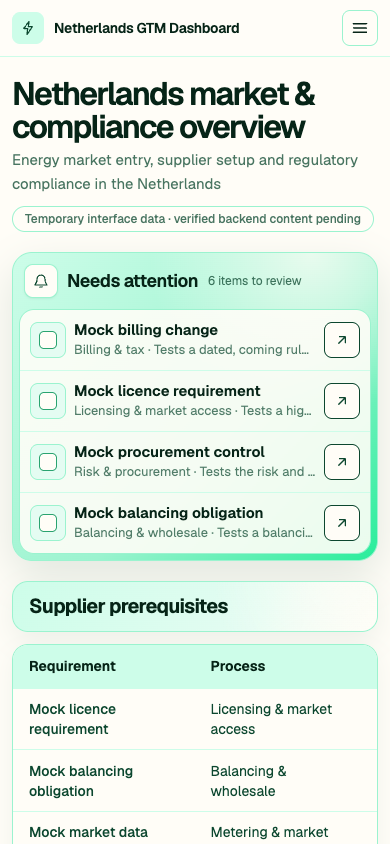
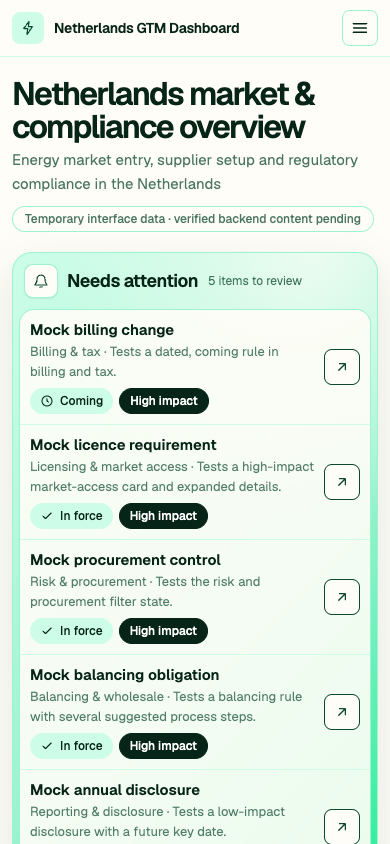
Align dashboard and seed with electricity-only compliance scope
- Scope label: Electricity · Netherlands
- Hide sales opportunities (kind opp) and sales process in UI
- Needs attention: read-only status, no local checkbox, show all items
- Prerequisites: one row per process, highest impact first
- Phone: status/impact pills visible, titles wrap, better contrast
- A11y: aria-controls, region, focus-visible, th scope
- Seed: remove gas-only R07, mark seed legacy/unverified
- Docs: fix stale prototype reference

Changed region(s): [[0.0308, 0.3081, 0.9846, 1.0], [0.5538, 0.3081, 0.7692, 0.3389]]

diff --git a/components/market-rules-dashboard.tsx b/components/market-rules-dashboard.tsx
@@ -4,7 +4,6 @@ import { useMemo, useState } from "react";
 import type {
   MarketRule,
   MarketRuleImpact,
-  MarketRuleKind,
   MarketRuleProcess,
   MarketRuleStatus,
 } from "@/lib/data/market-rules";
@@ -28,6 +27,8 @@ import {
 
 type FilterValue<T extends string> = "all" | T;
 
+const complianceProcesses = marketRuleProcesses.filter((value) => value !== "sales");
+
 const processLabels: Record<MarketRuleProcess, string> = {
   licence: "Licensing & market access",
   risk: "Risk & procurement",
@@ -50,6 +51,8 @@ const processQuestions: Record<MarketRuleProcess, string> = {
   sales: "Which client rule opens a deal?",
 };
 
+const impactRank: Record<MarketRuleImpact, number> = { high: 0, medium: 1, low: 2 };
+
 const impactLabels: Record<MarketRuleImpact, string> = {
   high: "High impact",
   medium: "Medium impact",
@@ -61,7 +64,8 @@ function formatDate(date: string) {
     day: "numeric",
     month: "short",
     year: "numeric",
-  }).format(new Date(`${date}T00:00:00`));
+    timeZone: "UTC",
+  }).format(new Date(`${date.slice(0, 10)}T00:00:00Z`));
 }
 
 function SelectFilter<T extends string>({
@@ -90,7 +94,7 @@ function SelectFilter<T extends string>({
           </option>
         ))}
       </select>
-      <ChevronDownIcon className="pointer-events-none absolute right-3 top-3 size-4 text-[#0C472F] sm:right-3.5 sm:top-3.5" />
+      <ChevronDownIcon className="pointer-events-none absolute right-3 top-1/2 size-4 -translate-y-1/2 text-[#0C472F] sm:right-3.5" />
     </label>
   );
 }
@@ -124,7 +128,11 @@ function ImpactPill({ impact }: { impact: MarketRuleImpact }) {
 
 function RuleDetails({ rule }: { rule: MarketRule }) {
   return (
-    <div className="grid gap-6 border-t border-[#CDFDE9] bg-[#FBF7EB] px-4 py-5 md:grid-cols-[1.15fr_0.85fr] md:px-6">
+    <div
+      id={`rule-details-${rule.id}`}
+      role="region"
+      aria-label={`Details: ${rule.title}`}
+      className="grid gap-6 border-t border-[#CDFDE9] bg-[#FBF7EB] px-4 py-5 md:grid-cols-[1.15fr_0.85fr] md:px-6">
       <div>
         <p className="market-kicker">What the rule says</p>
         <p className="mt-2 text-sm leading-6 text-[#0C472F]">{rule.rule_text}</p>
@@ -132,7 +140,7 @@ function RuleDetails({ rule }: { rule: MarketRule }) {
         <p className="market-kicker mt-5">What this means for trawa</p>
         <p className="mt-2 text-sm leading-6 text-[#0C472F]">{rule.impact_text}</p>
 
-        <div className="mt-5 flex flex-wrap items-center gap-x-4 gap-y-2 text-xs text-[#2AA370]">
+        <div className="mt-5 flex flex-wrap items-center gap-x-4 gap-y-2 text-xs text-[#1F7A54]">
           <span>Checked {formatDate(rule.checked_at)}</span>
           {rule.check ? (
             <span className="rounded-full border border-[#9BF3CF] bg-[#FFFDF7] px-2 py-1 font-medium text-[#0C472F]">
@@ -149,7 +157,7 @@ function RuleDetails({ rule }: { rule: MarketRule }) {
         </p>
         <ol className="mt-3 space-y-3">
           {rule.steps.map((step, index) => (
-            <li key={step} className="flex gap-3 text-sm leading-5 text-[#0C472F]">
+            <li key={`${index}-${step}`} className="flex gap-3 text-sm leading-5 text-[#0C472F]">
               <span className="grid size-5 shrink-0 place-items-center rounded-full bg-[#0C472F] text-[11px] font-semibold text-white">
                 {index + 1}
               </span>
@@ -161,9 +169,9 @@ function RuleDetails({ rule }: { rule: MarketRule }) {
         <div className="mt-5 border-t border-[#CDFDE9] pt-4">
           <p className="market-kicker">Evidence / sources</p>
           <div className="mt-2 flex flex-col items-start gap-2">
-            {rule.sources.map((source) => (
+            {rule.sources.map((source, sourceIndex) => (
               <a
-                key={source.url}
+                key={`${sourceIndex}-${source.url}`}
                 href={source.url}
                 target="_blank"
                 rel="noreferrer"
@@ -181,21 +189,22 @@ function RuleDetails({ rule }: { rule: MarketRule }) {
 }
 
 export function MarketRulesDashboard({
-  rules,
+  rules: allRules,
   isMockData = false,
 }: {
   rules: MarketRule[];
   isMockData?: boolean;
 }) {
+  // Compliance scope only: sales opportunities (kind "opp") and the sales process are out of scope.
+  const rules = useMemo(
+    () => allRules.filter((rule) => rule.kind === "must" && rule.process !== "sales"),
+    [allRules],
+  );
   const [search, setSearch] = useState("");
   const [process, setProcess] = useState<FilterValue<MarketRuleProcess>>("all");
-  const [kind, setKind] = useState<FilterValue<MarketRuleKind>>("all");
   const [status, setStatus] = useState<FilterValue<MarketRuleStatus>>("all");
   const [expandedRule, setExpandedRule] = useState<string | null>(null);
   const [mobileNavigationOpen, setMobileNavigationOpen] = useState(false);
-  const [completedAttentionRules, setCompletedAttentionRules] = useState<Set<string>>(
-    () => new Set(),
-  );
 
   const filteredRules = useMemo(() => {
     const query = search.trim().toLowerCase();
@@ -211,43 +220,46 @@ export function MarketRulesDashboard({
       return (
         matchesSearch &&
         (process === "all" || rule.process === process) &&
-        (kind === "all" || rule.kind === kind) &&
         (status === "all" || rule.status === status)
       );
     });
-  }, [kind, process, rules, search, status]);
+  }, [process, rules, search, status]);
 
   const attentionRules = useMemo(
     () =>
       [...rules]
         .filter(
           (rule) =>
-            rule.kind === "must" &&
-            (rule.impact === "high" || rule.status === "coming"),
+            rule.impact === "high" || rule.status === "coming",
         )
         .sort((first, second) => {
           if (first.impact === "high" && second.impact !== "high") return -1;
           if (first.impact !== "high" && second.impact === "high") return 1;
-          return (first.key_date ?? "9999").localeCompare(second.key_date ?? "9999");
+          if (!first.key_date && !second.key_date) return 0;
+          if (!first.key_date) return 1;
+          if (!second.key_date) return -1;
+          return first.key_date.localeCompare(second.key_date);
         }),
     [rules],
   );
 
   const prerequisiteRules = useMemo(
     () =>
-      rules
-        .filter((rule) => ["licence", "balancing", "data", "billing"].includes(rule.process))
-        .slice(0, 5),
+      // One row per prerequisite process, highest impact first.
+      (["licence", "balancing", "data", "billing"] as const).flatMap((processName) => {
+        const best = rules
+          .filter((rule) => rule.process === processName)
+          .sort((first, second) => impactRank[first.impact] - impactRank[second.impact])[0];
+        return best ? [best] : [];
+      }),
     [rules],
   );
 
-  const remainingAttentionCount = attentionRules.filter(
-    (rule) => !completedAttentionRules.has(rule.id),
-  ).length;
+  const attentionCount = attentionRules.length;
 
   const processSummaries = useMemo(
     () =>
-      marketRuleProcesses.map((processName) => {
+      complianceProcesses.map((processName) => {
         const processRules = rules.filter((rule) => rule.process === processName);
         const nextDate = processRules
           .map((rule) => rule.key_date)
@@ -267,7 +279,6 @@ export function MarketRulesDashboard({
   function clearFilters() {
     setSearch("");
     setProcess("all");
-    setKind("all");
     setStatus("all");
   }
 
@@ -281,15 +292,6 @@ export function MarketRulesDashboard({
           block: "center",
         });
       });
-    });
-  }
-
-  function setAttentionRuleCompleted(ruleId: string, completed: boolean) {
-    setCompletedAttentionRules((current) => {
-      const next = new Set(current);
-      if (completed) next.add(ruleId);
-      else next.delete(ruleId);
-      return next;
     });
   }
 
@@ -362,7 +364,7 @@ export function MarketRulesDashboard({
           <p className="mt-1.5 text-xs leading-5 text-[#0C472F]/70">
             B2B · SME + mid-market
             <br />
-            Power + gas · Netherlands
+            Electricity · Netherlands
           </p>
         </div>
       </aside>
@@ -392,40 +394,30 @@ export function MarketRulesDashboard({
                 Needs attention
               </h2>
               <span className="text-xs text-[#0C472F]/75 sm:text-sm">
-                {remainingAttentionCount} {remainingAttentionCount === 1 ? "item" : "items"} to review
+                {attentionCount} {attentionCount === 1 ? "item" : "items"} to review
               </span>
             </div>
 
             <div className="mx-1.5 mb-1.5 overflow-hidden rounded-[15px] border border-[#9BF3CF] bg-[#FFFDF7]/90 sm:mx-2 sm:mb-2 sm:rounded-xl">
-              {attentionRules.slice(0, 4).map((rule) => (
+              {attentionRules.map((rule) => (
                 <div
                   key={rule.id}
-                  className={`grid grid-cols-[36px_minmax(0,1fr)_36px] items-center gap-2 border-b border-[#CDFDE9] px-2.5 py-2.5 transition last:border-b-0 sm:grid-cols-[44px_1fr_auto] sm:gap-3 sm:px-3 sm:py-3 ${completedAttentionRules.has(rule.id) ? "bg-[#E4FCF2]/70" : ""}`}
+                  className="grid grid-cols-[minmax(0,1fr)_36px] items-center gap-2 border-b border-[#CDFDE9] px-2.5 py-2.5 transition last:border-b-0 sm:grid-cols-[1fr_auto] sm:gap-3 sm:px-3 sm:py-3"
                 >
-                  <label className="grid size-9 cursor-pointer place-items-center rounded-lg border border-[#9BF3CF] bg-[#E4FCF2] text-[#0C472F] transition hover:border-[#2AA370] sm:size-10 sm:rounded-xl">
-                    <span className="sr-only">Mark {rule.title} complete</span>
-                    <input
-                      type="checkbox"
-                      className="peer sr-only"
-                      checked={completedAttentionRules.has(rule.id)}
-                      onChange={(event) =>
-                        setAttentionRuleCompleted(rule.id, event.target.checked)
-                      }
-                    />
-                    <span className="grid size-[18px] place-items-center rounded-[5px] border border-[#2AA370] bg-[#FFFDF7] text-transparent transition peer-checked:bg-[#0C472F] peer-checked:text-white sm:size-5 sm:rounded-md">
-                      <CheckIcon className="size-3 sm:size-3.5" />
-                    </span>
-                  </label>
                   <span className="min-w-0">
-                    <span className={`block truncate text-[15px] font-semibold leading-5 sm:text-base ${completedAttentionRules.has(rule.id) ? "text-[#0C472F]/60 line-through" : ""}`}>{rule.title}</span>
-                    <span className="block truncate text-[13px] leading-5 text-[#0C472F]/70 sm:mt-0.5 sm:text-sm">
+                    <span className="block text-[15px] font-semibold leading-5 sm:text-base">{rule.title}</span>
+                    <span className="mt-0.5 line-clamp-2 block text-[13px] leading-5 text-[#0C472F]/70 sm:text-sm">
                       {processLabels[rule.process]} · {rule.impact_text}
+                    </span>
+                    <span className="mt-1.5 flex flex-wrap gap-1.5">
+                      <StatusPill status={rule.status} />
+                      <ImpactPill impact={rule.impact} />
                     </span>
                   </span>
                   <button
                     type="button"
                     aria-label={`Check details for ${rule.title}`}
-                    className="inline-flex size-9 items-center justify-center rounded-lg border border-[#0C472F] bg-[#FFFDF7] text-[#0C472F] transition hover:bg-[#E4FCF2] focus:outline-none focus:ring-2 focus:ring-[#29ED9B] focus:ring-offset-2 sm:h-10 sm:w-auto sm:gap-2 sm:rounded-full sm:px-4"
+                    className="inline-flex size-9 items-center justify-center rounded-lg border border-[#0C472F] bg-[#FFFDF7] text-[#0C472F] transition hover:bg-[#E4FCF2] focus:outline-none focus-visible:ring-2 focus-visible:ring-[#29ED9B] focus-visible:ring-offset-2 sm:h-10 sm:w-auto sm:gap-2 sm:rounded-full sm:px-4"
                     onClick={() => showRule(rule)}
                   >
                     <ArrowUpRightIcon className="size-4" />
@@ -444,11 +436,11 @@ export function MarketRulesDashboard({
               <table className="w-full min-w-[820px] border-collapse text-left text-sm">
                 <thead>
                   <tr>
-                    <th>Requirement</th>
-                    <th>Process</th>
-                    <th>Status</th>
-                    <th>Evidence / link</th>
-                    <th>Key date</th>
+                    <th scope="col">Requirement</th>
+                    <th scope="col">Process</th>
+                    <th scope="col">Status</th>
+                    <th scope="col">Evidence / link</th>
+                    <th scope="col">Key date</th>
                   </tr>
                 </thead>
                 <tbody>
@@ -458,15 +450,19 @@ export function MarketRulesDashboard({
                       <td>{processLabels[rule.process]}</td>
                       <td><StatusPill status={rule.status} /></td>
                       <td>
-                        <a
-                          href={rule.sources[0]?.url}
-                          target="_blank"
-                          rel="noreferrer"
-                          className="inline-flex items-center gap-1.5 font-medium text-[#0C472F] underline decoration-[#6EEEBA] underline-offset-4 hover:decoration-[#0C472F]"
-                        >
-                          {rule.sources[0]?.label ?? "No source"}
-                          <ArrowUpRightIcon className="size-3.5" />
-                        </a>
+                        {rule.sources[0]?.url.startsWith("https://") ? (
+                          <a
+                            href={rule.sources[0].url}
+                            target="_blank"
+                            rel="noreferrer"
+                            className="inline-flex items-center gap-1.5 font-medium text-[#0C472F] underline decoration-[#6EEEBA] underline-offset-4 hover:decoration-[#0C472F]"
+                          >
+                            {rule.sources[0].label}
+                            <ArrowUpRightIcon className="size-3.5" />
+                          </a>
+                        ) : (
+                          "No source"
+                        )}
                       </td>
                       <td className="whitespace-nowrap">{rule.key_date ? formatDate(rule.key_date) : "Ongoing"}</td>
                     </tr>
@@ -484,7 +480,7 @@ export function MarketRulesDashboard({
                   Showing {filteredRules.length} of {rules.length} rules
                 </p>
               </div>
-              {(search || process !== "all" || kind !== "all" || status !== "all") ? (
+              {(search || process !== "all" || status !== "all") ? (
                 <button type="button" className="text-sm font-medium underline underline-offset-4" onClick={clearFilters}>
                   Clear filters
                 </button>
@@ -508,16 +504,7 @@ export function MarketRulesDashboard({
                   label="Processes"
                   value={process}
                   onChange={setProcess}
-                  options={marketRuleProcesses.map((value) => ({ value, label: processLabels[value] }))}
-                />
-                <SelectFilter
-                  label="Types"
-                  value={kind}
-                  onChange={setKind}
-                  options={[
-                    { value: "must", label: "Must comply" },
-                    { value: "opp", label: "Sales opportunity" },
-                  ]}
+                  options={complianceProcesses.map((value) => ({ value, label: processLabels[value] }))}
                 />
                 <SelectFilter
                   label="Statuses"
@@ -540,12 +527,17 @@ export function MarketRulesDashboard({
                       <button
                         type="button"
                         aria-expanded={expanded}
-                        className="grid w-full grid-cols-[minmax(0,1fr)_32px] items-center gap-2.5 px-3 py-3 text-left transition hover:bg-[#E4FCF2] md:grid-cols-[minmax(250px,1.35fr)_minmax(170px,0.8fr)_auto_auto_32px] md:gap-3 md:px-5 md:py-4"
+                        aria-controls={`rule-details-${rule.id}`}
+                        className="grid w-full grid-cols-[minmax(0,1fr)_32px] items-center gap-2.5 px-3 py-3 text-left transition hover:bg-[#E4FCF2] focus-visible:outline-none focus-visible:ring-2 focus-visible:ring-inset focus-visible:ring-[#0C472F] md:grid-cols-[minmax(250px,1.35fr)_minmax(170px,0.8fr)_auto_auto_32px] md:gap-3 md:px-5 md:py-4"
                         onClick={() => setExpandedRule(expanded ? null : rule.id)}
                       >
                         <span className="min-w-0">
-                          <span className="block truncate text-[15px] font-semibold leading-5 sm:text-base">{rule.title}</span>
-                          <span className="block truncate text-[13px] leading-5 text-[#0C472F]/70 sm:mt-1 sm:text-sm">{rule.impact_text}</span>
+                          <span className="line-clamp-2 block text-[15px] font-semibold leading-5 sm:text-base">{rule.title}</span>
+                          <span className="line-clamp-2 block text-[13px] leading-5 text-[#0C472F]/70 sm:mt-1 sm:text-sm">{rule.impact_text}</span>
+                          <span className="mt-1.5 flex flex-wrap gap-1.5 md:hidden">
+                            <StatusPill status={rule.status} />
+                            <ImpactPill impact={rule.impact} />
+                          </span>
                         </span>
                         <span className="hidden text-sm text-[#0C472F] md:block">{processLabels[rule.process]}</span>
                         <span className="hidden md:inline-flex"><StatusPill status={rule.status} /></span>
@@ -582,11 +574,11 @@ export function MarketRulesDashboard({
               <table className="w-full min-w-[760px] border-collapse text-left text-sm">
                 <thead>
                   <tr>
-                    <th>Process</th>
-                    <th>Decision question</th>
-                    <th>Rules</th>
-                    <th>High impact</th>
-                    <th>Next key date</th>
+                    <th scope="col">Process</th>
+                    <th scope="col">Decision question</th>
+                    <th scope="col">Rules</th>
+                    <th scope="col">High impact</th>
+                    <th scope="col">Next key date</th>
                   </tr>
                 </thead>
                 <tbody>

diff --git a/app/globals.css b/app/globals.css
@@ -107,7 +107,7 @@ html {
   font-weight: 700;
   letter-spacing: 0.1em;
   text-transform: uppercase;
-  color: var(--green-600);
+  color: #1f7a54;
 }
 
 .market-outline-button {

diff --git a/docs/market-rules.md b/docs/market-rules.md
@@ -13,7 +13,7 @@ Dutch energy-market rules, each mapped to the process trawa must build. First mo
 ## Current prototype data
 
 Table `market_rules` (migration in `supabase/migrations/`, data in `supabase/seed/market_rules.sql`).
-v1 content comes from the prototype at `/prototypes/nl-market-rules.html` (16 rules).
+The page currently renders local mock data from `lib/data/market-rules.ts`. It does not read the table or `supabase/seed/market_rules.sql`. The seed holds 15 legacy, unverified rules (R07 removed: gas-only).
 
 | Field | Type | Rule |
 |---|---|---|
@@ -77,7 +77,7 @@ Add a design contract only when multiple modules reuse a complex component or in
 - In the prototype, `rule_text` states the source and `steps` are suggested work.
 - In the target UI, `description` is literal evidence and `actions` are operational work.
 - Target backend scope: B2B electricity only (SME + mid-market).
-- The current “Power + gas” UI label must change before backend integration.
+- The UI label reads “Electricity · Netherlands”. The type filter and the sales process are hidden in the UI.
 - Target filters: process, activity, impact, lifecycle and search.
 - Sales opportunities do not use the compliance endpoint.
 - Lifecycle changes come from reviewed source evidence, not from a client-side date check.
